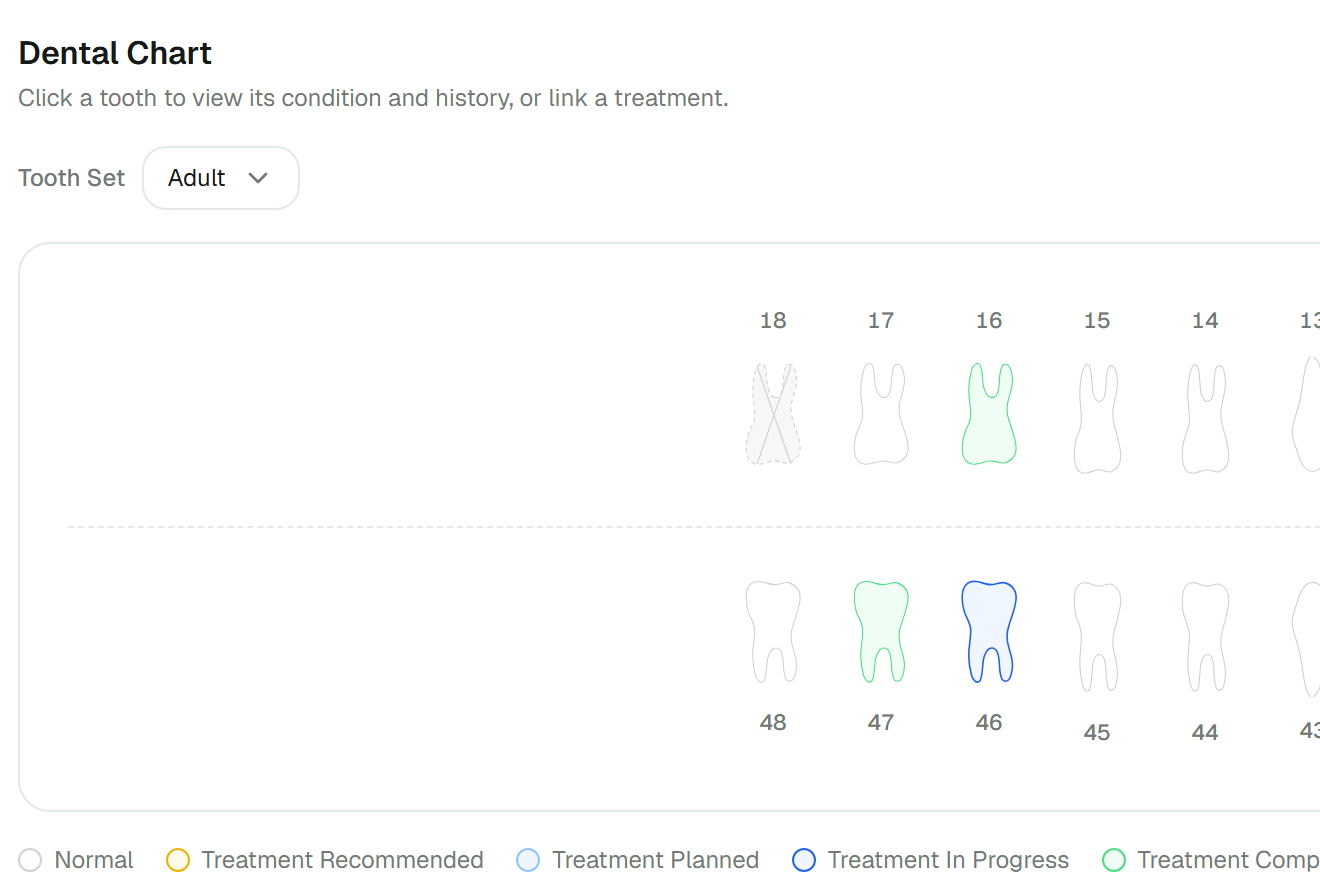
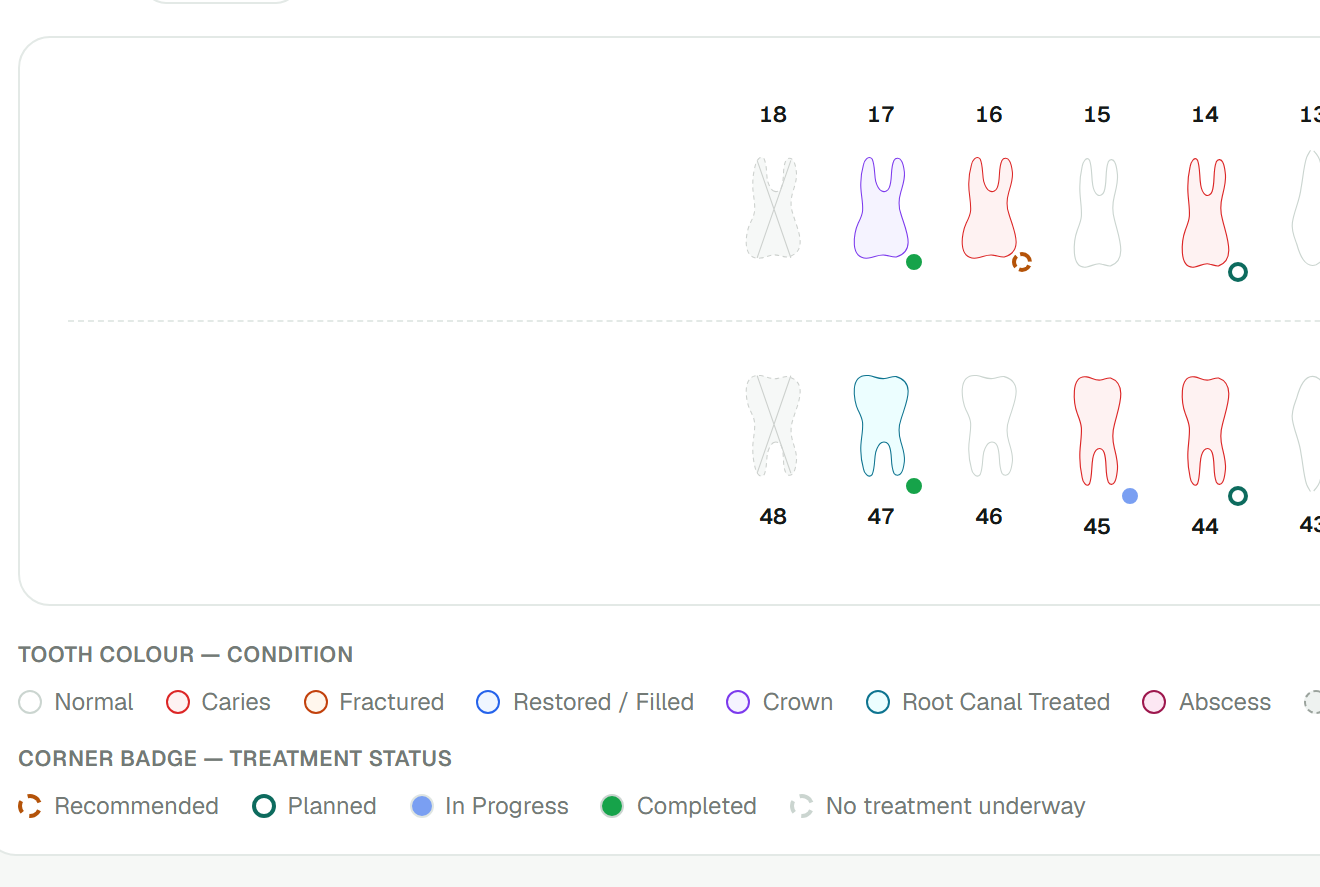
content: refresh Dashboard/Dental Chart screenshots, nav and hero copy
Screenshots (PRODUCT_SCREENSHOTS.md has the full account):
- Today's Dashboard and Dental Chart re-shot against the current UI.
  The old capture's `match: 'Rohan'` named a patient from a dataset
  that no longer exists locally, so the screen had been silently
  skipped; fixed to match Asha Menon, the local seed's own patient
  with dental-chart entries.
- scripts/capture-data-dashboard-chart.sql (new) tops up the thin
  local seed for both shoots: nine more patients and ten more
  appointments across today (with treatments and payments, so
  "Revenue: Today" isn't ₹0 the way an already-completed-but-unpaid
  treatment in the base seed was), and rebuilds Asha's chart to all
  32 teeth spanning every status the legend defines.
- capture-product-screenshots.mjs / crop-product-screenshots.mjs both
  take an optional scope (SCREENS_ONLY / OUTPUTS_ONLY) now, so a
  partial re-shoot doesn't have to run or touch the other screens.
  Output sizes are unchanged — same crop regions, same target
  dimensions as before.
- Six files updated: dashboard-workspace, workspace_banner_mobile,
  clinical-workflow, clinical_banner_mobile, offer_queue, offer_chart.
  The other seven (Actions, Billing, Appointments, patient-treatments
  derived) are untouched.

Copy:
- Hero: "One system for the way your clinic works" -> "One
  intelligent system for the way your clinic works".
- Action Layer card title: "See what needs attention" -> "See what
  needs attention.".
[…]

diff --git a/e2e/navigation.spec.ts b/e2e/navigation.spec.ts
@@ -15,7 +15,7 @@ test.describe('Header navigation', () => {
 
     const nav = page.getByTestId('site-nav');
     await expect(nav.locator('a[href="/#product"]')).toBeVisible();
-    await expect(nav.locator('a[href="/#solutions"]')).toBeVisible();
+    await expect(nav.locator('a[href="/#intelligence"]')).toBeVisible();
     await expect(nav.locator('a[href="/#security"]')).toBeVisible();
 
     await nav.locator('a[href="/#security"]').click();
@@ -46,11 +46,11 @@ test.describe('Header navigation', () => {
     await waitForPageReady(page);
 
     const nav = page.getByTestId('site-nav');
-    await nav.locator('a[href="/#solutions"]').click();
+    await nav.locator('a[href="/#intelligence"]').click();
 
-    await expect(page).toHaveURL(/\/#solutions$/);
+    await expect(page).toHaveURL(/\/#intelligence$/);
     await waitForPageReady(page);
-    await expect(page.locator('#solutions')).toBeInViewport();
+    await expect(page.locator('#intelligence')).toBeInViewport();
   });
 });
 

diff --git a/src/components/UI/FinancialFuture/index.tsx b/src/components/UI/FinancialFuture/index.tsx
@@ -20,6 +20,7 @@ import {
 import MaskText from '@/components/Common/MaskText';
 import AnimatedNumber from '@/components/Common/AnimatedNumber';
 import { useIsMobile } from '../../../../libs/useIsMobile';
+import { SECTION_IDS } from '../../../../libs/useScrollToSection';
 import {
   areas,
   cardsInfo,
@@ -35,7 +36,7 @@ const FinancialFuture = () => {
   const isMobile = useIsMobile();
 
   return (
-    <Wrapper>
+    <Wrapper id={SECTION_IDS.intelligence}>
       <Inner>
         <Header>
           <h3>{eyebrow}</h3>

diff --git a/src/components/UI/Footer/index.tsx b/src/components/UI/Footer/index.tsx
@@ -43,8 +43,8 @@ const linksArr: { title: string; links: FooterEntry[] }[] = [
     title: 'Product',
     links: [
       { label: 'Product', href: `/#${SECTION_IDS.product}` },
-      { label: 'Solutions', href: `/#${SECTION_IDS.solutions}` },
-      { label: 'Security', href: `/#${SECTION_IDS.security}` },
+      { label: 'Intelligence', href: `/#${SECTION_IDS.intelligence}` },
+      { label: 'FAQs', href: `/#${SECTION_IDS.security}` },
     ],
   },
   {

diff --git a/src/components/UI/Featured/index.tsx b/src/components/UI/Featured/index.tsx
@@ -57,7 +57,7 @@ const Featured = () => {
             )}
           </Div>
         </ImageContainer>
-        <h2>One system for the way your clinic works</h2>
+        <h2>One intelligent system for the way your clinic works</h2>
         <ParallaxImages>
           {/* Slow enough to read a passing label rather than to register as
               motion — the row names what the system covers, so it has to be

diff --git a/src/components/UI/FinancialFuture/constants.ts b/src/components/UI/FinancialFuture/constants.ts
@@ -15,7 +15,7 @@ export const eyebrow = 'Intelligence and guided actions';
  */
 export const cardsInfo = [
   {
-    title: 'See what needs attention',
+    title: 'See what needs attention.',
     details:
       'OraMedha continuously watches activity across the clinic and brings important issues to the surface before they get lost in the day-to-day',
     visual: brain_attention,

diff --git a/src/components/UI/Header/constants.ts b/src/components/UI/Header/constants.ts
@@ -64,11 +64,11 @@ export const links = [
     linkTo: 'Product',
   },
   {
-    href: `/#${SECTION_IDS.solutions}`,
-    linkTo: 'Solutions',
+    href: `/#${SECTION_IDS.intelligence}`,
+    linkTo: 'Intelligence',
   },
   {
     href: `/#${SECTION_IDS.security}`,
-    linkTo: 'Security',
+    linkTo: 'FAQs',
   },
 ];

diff --git a/libs/useScrollToSection.tsx b/libs/useScrollToSection.tsx
@@ -5,6 +5,7 @@ import { useCallback } from 'react';
 /** Ids of the homepage sections the navigation points at. */
 export const SECTION_IDS = {
   product: 'product',
+  intelligence: 'intelligence',
   solutions: 'solutions',
   security: 'security',
 } as const;

diff --git a/PRODUCT_SCREENSHOTS.md b/PRODUCT_SCREENSHOTS.md
@@ -12,11 +12,14 @@ mockup, an illustration, or hand-built UI.
 - **Data**: the demo clinic at `00000000-0000-0000-0000-000000000001`, signed
   in as `brain@dentgrow.test`. All patients, appointments, treatments and
   payments are disposable local demo data — no real patient information appears
-  in any frame. The five non-Actions screens were shot against a richer
-  **BrightSmile Dental Studio** dataset that was never committed and no longer
-  exists locally; the Actions frames were re-shot later against the PMS's own
-  committed `supabase/seed.sql` clinic, which is deliberately thin. See
-  "The Actions re-shoot" below.
+  in any frame. The five non-Actions screens were originally shot against a
+  richer **BrightSmile Dental Studio** dataset that was never committed and no
+  longer exists locally; the Actions frames were re-shot later against the
+  PMS's own committed `supabase/seed.sql` clinic, which is deliberately thin
+  (see "The Actions re-shoot" below), and the Dashboard and Dental Chart
+  frames were re-shot later still against that same thin clinic, topped up by
+  `scripts/capture-data-dashboard-chart.sql` (see "The Dashboard and Dental
+  Chart re-shoot" below).
 - **"Today"**: the clinic's seeded activity was originally anchored to a
   fixed date. Before capture, that clinic's appointment/treatment/payment/
   queue timestamps were shifted forward (in the local Supabase container
@@ -33,10 +36,10 @@ mockup, an illustration, or hand-built UI.
 
 | Screen | PMS route | Viewport | Patient/data shown |
 |---|---|---|---|
-| Today's Dashboard | `/dentist` | 1920×1150 | Full day: 24 appointments, live queue, KPIs |
+| Today's Dashboard | `/dentist` | 1920×1150 | Full day: 12 appointments, ₹33,800 revenue, a four-patient live queue |
 | Actions (Business Brain) | `/dentist/business-brain` | 1680×1300 | Clinic health 69 · 3 "Needs attention" findings paired with 3 "What to do" actions |
 | Patient Profile — Treatments | `/dentist/patients/[id]?tab=treatments` | 1600×1100 | Priya Nair — 4 visits, 6 treatments, a real outstanding balance |
-| Patient Profile — Dental Chart | `/dentist/patients/[id]?tab=dental-chart` | 1920×1150 | Rohan Patel — the one seeded patient whose chart spans every tooth status (recommended, planned, in-progress, completed, missing) |
+| Patient Profile — Dental Chart | `/dentist/patients/[id]?tab=dental-chart` | 1920×1150 | Asha Menon — the local seed's own patient with dental-chart entries, built out to all 32 teeth spanning every tooth status (recommended, planned, in-progress, completed, missing) |
 | Billing & Payments | `/dentist/payments` | 1680×1200 | Today's revenue, 10 patients with remaining balances, a real payment ledger |
 | Appointments | `/dentist/appointments?filter=today` | 1680×1200 | 32 appointments across dates, doctors and statuses |
 
@@ -137,6 +140,16 @@ node scripts/capture-product-screenshots.mjs   # six full screens  -> capture/
 node scripts/crop-product-screenshots.mjs      # thirteen shipped  -> public/images/product/
 ```
 
+Re-shooting one or two screens doesn't have to touch (or log in for) the
+other four — both scripts accept a scope, keyed by their own `name`/`out`
+values:
+
+```bash
+SCREENS_ONLY=dashboard,patient-chart node scripts/capture-product-screenshots.mjs
+OUTPUTS_ONLY=dashboard-workspace,clinical-workflow,workspace_banner_mobile,clinical_banner_mobile,offer_queue,offer_chart \
+  node scripts/crop-product-screenshots.mjs
+```
+
 `capture/` is gitignored: it is large, and everything in it is reproducible.
 
 The crop script hard-codes each output size, because those are the sizes the
@@ -144,6 +157,52 @@ site's slots were tuned against — the four `offer_*` previews in particular sh
 a ~1.45 aspect so the card row renders at one consistent size. It also hard-codes
 each region in CSS pixels, and that is the one part of the pipeline that needs
 revisiting if the app's layout changes materially.
+
+## The Dashboard and Dental Chart re-shoot
+
+Both screens were re-captured on their own, against the current UI and the
+PMS's own thin committed `supabase/seed.sql` clinic — the richer BrightSmile
+dataset both were originally shot against no longer exists locally (see
+"Source" above), and by this round `patient-chart`'s old `match: 'Rohan'`
+named a patient that dataset held and this one never did, so the capture
+script had been silently skipping that screen (`! could not find a patient
+matching "Rohan" - skipped`) for however long the data had been gone. Fixed
+in the script to match Asha Menon, the one local-seed patient with any
+dental-chart entries at all — three teeth, nowhere near enough to
+photograph.
+
+Both screens also needed more data than the base seed carries to be worth
+shooting: two appointments is a near-empty dashboard, and three teeth is
+mostly a blank arch. `scripts/capture-data-dashboard-chart.sql` — a
+companion to `capture-data.sql`, not a replacement; the two shape the same
+clinic for opposite purposes and are never applied together — adds nine more
+patients and ten more appointments spread across today's hours (most
+completed, a few checked in), a treatment and a same-day payment for every
+completed one (₹33,800 total — "Revenue: Today" reads from payments, not
+from a completed treatment's own cost, which a completed-but-unpaid
+treatment already in the base seed proved by contributing nothing), and
+rebuilds Asha's chart to all 32 adult teeth spanning every status the
+chart's own legend defines.
+
+The appointment times are the one non-obvious part of that file: they're
+stored as the intended DISPLAY hour minus 5:30, not the display hour
+itself, because the base seed's own two appointments (Priya, Imran) turn
+out to already work that way — `10:00+00` displays as `15:30` IST, not
+`10:00`. Storing the intended hour directly, as a first pass of the file
+did, landed six new appointments' stored UTC value in that hour instead,
+which round-tripped through the same display conversion to between 5:30pm
+and 9:30pm — past the clinic's actual closing time, reading as a clinic
+open half the night.
+
+Apply it after `capture-data.sql` if both happen to be needed (they won't
+be, for the same shoot), or on its own against the base seed:
+
+```bash
+docker exec -i supabase_db_dentgrow psql -U postgres -d postgres < scripts/capture-data-dashboard-chart.sql
+```
+
+Re-run any time "today" needs to be current again — every row it owns is
+deleted and rebuilt, so it's safe to apply repeatedly.
 
 ## The Actions re-shoot
 
